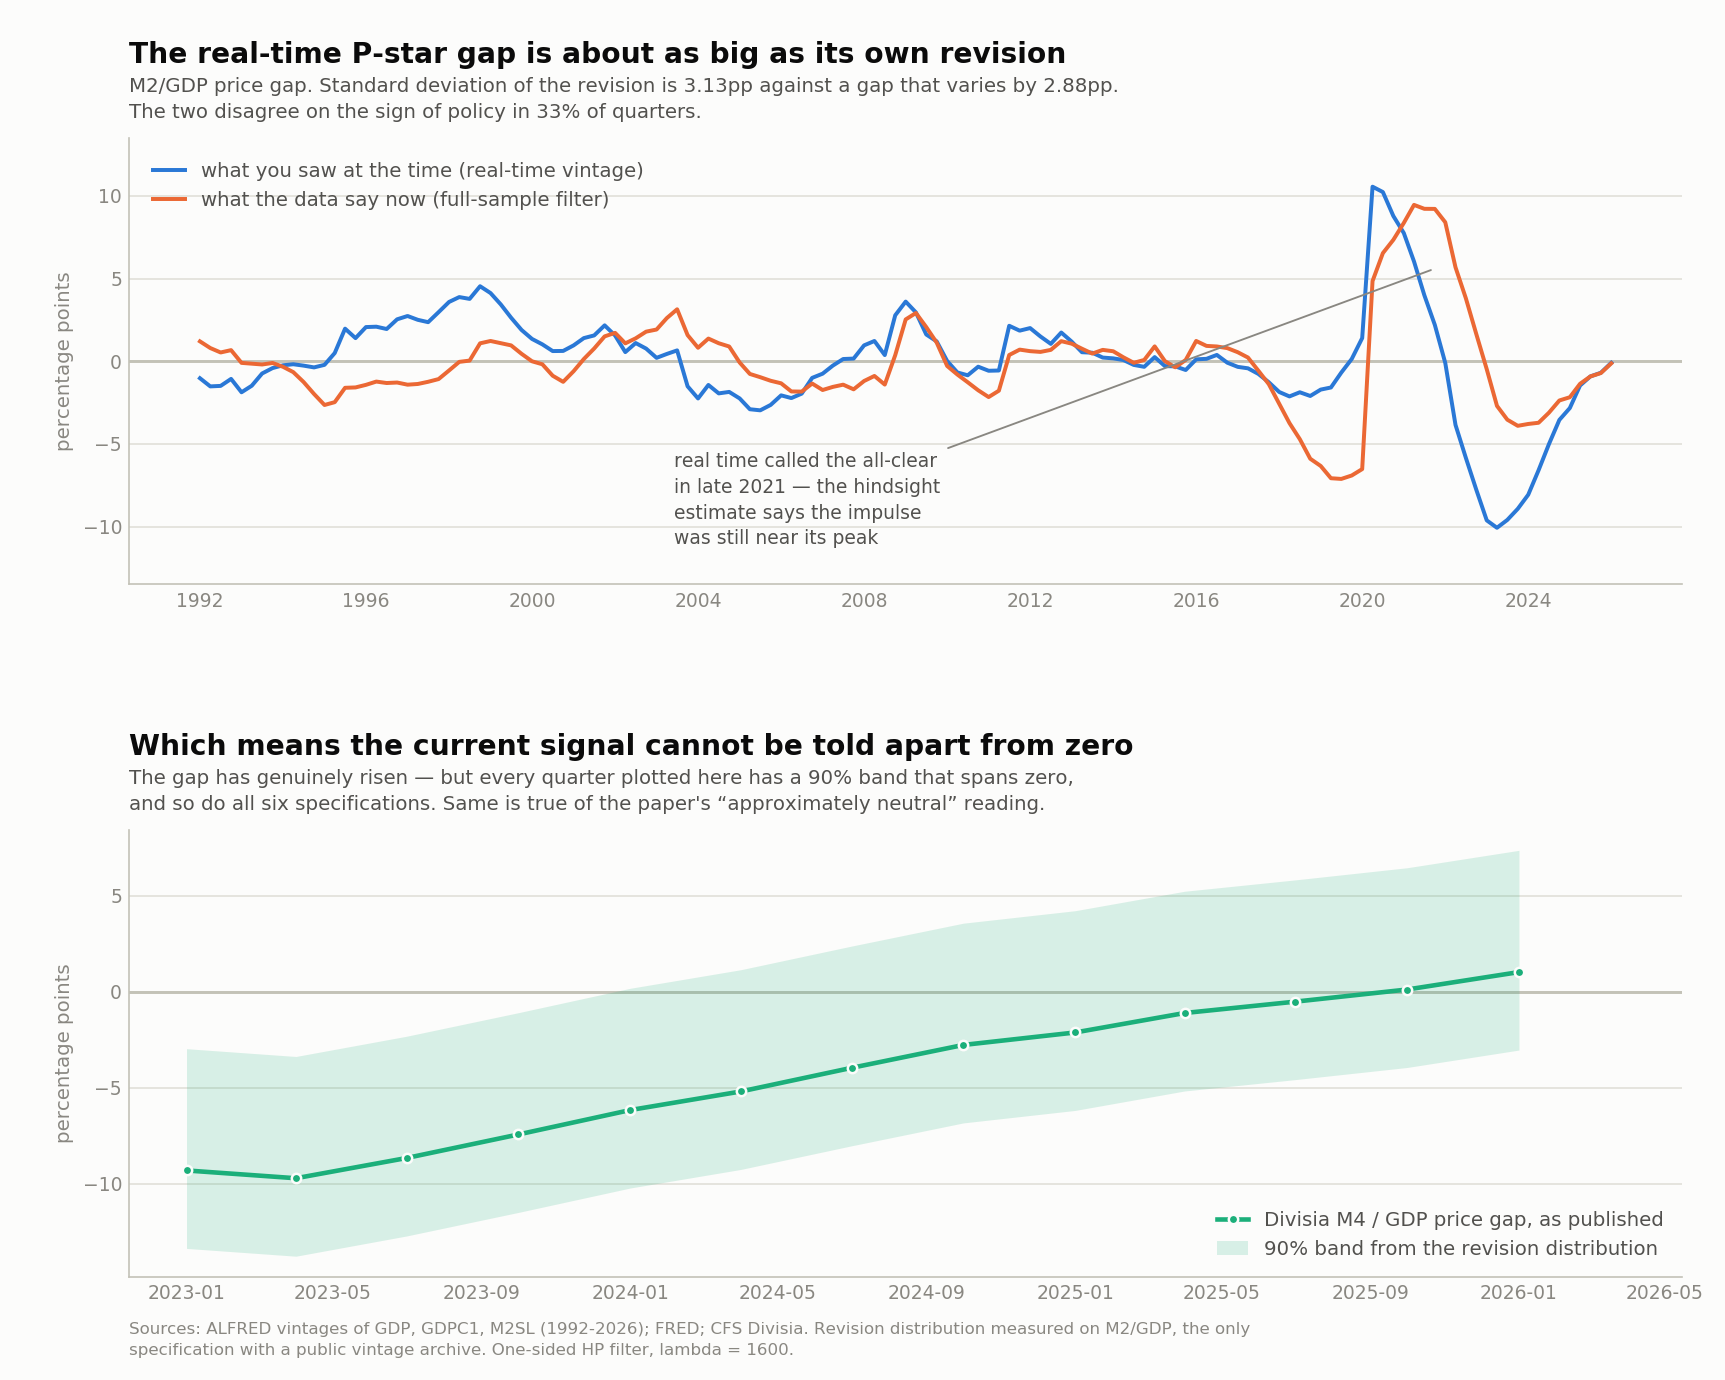
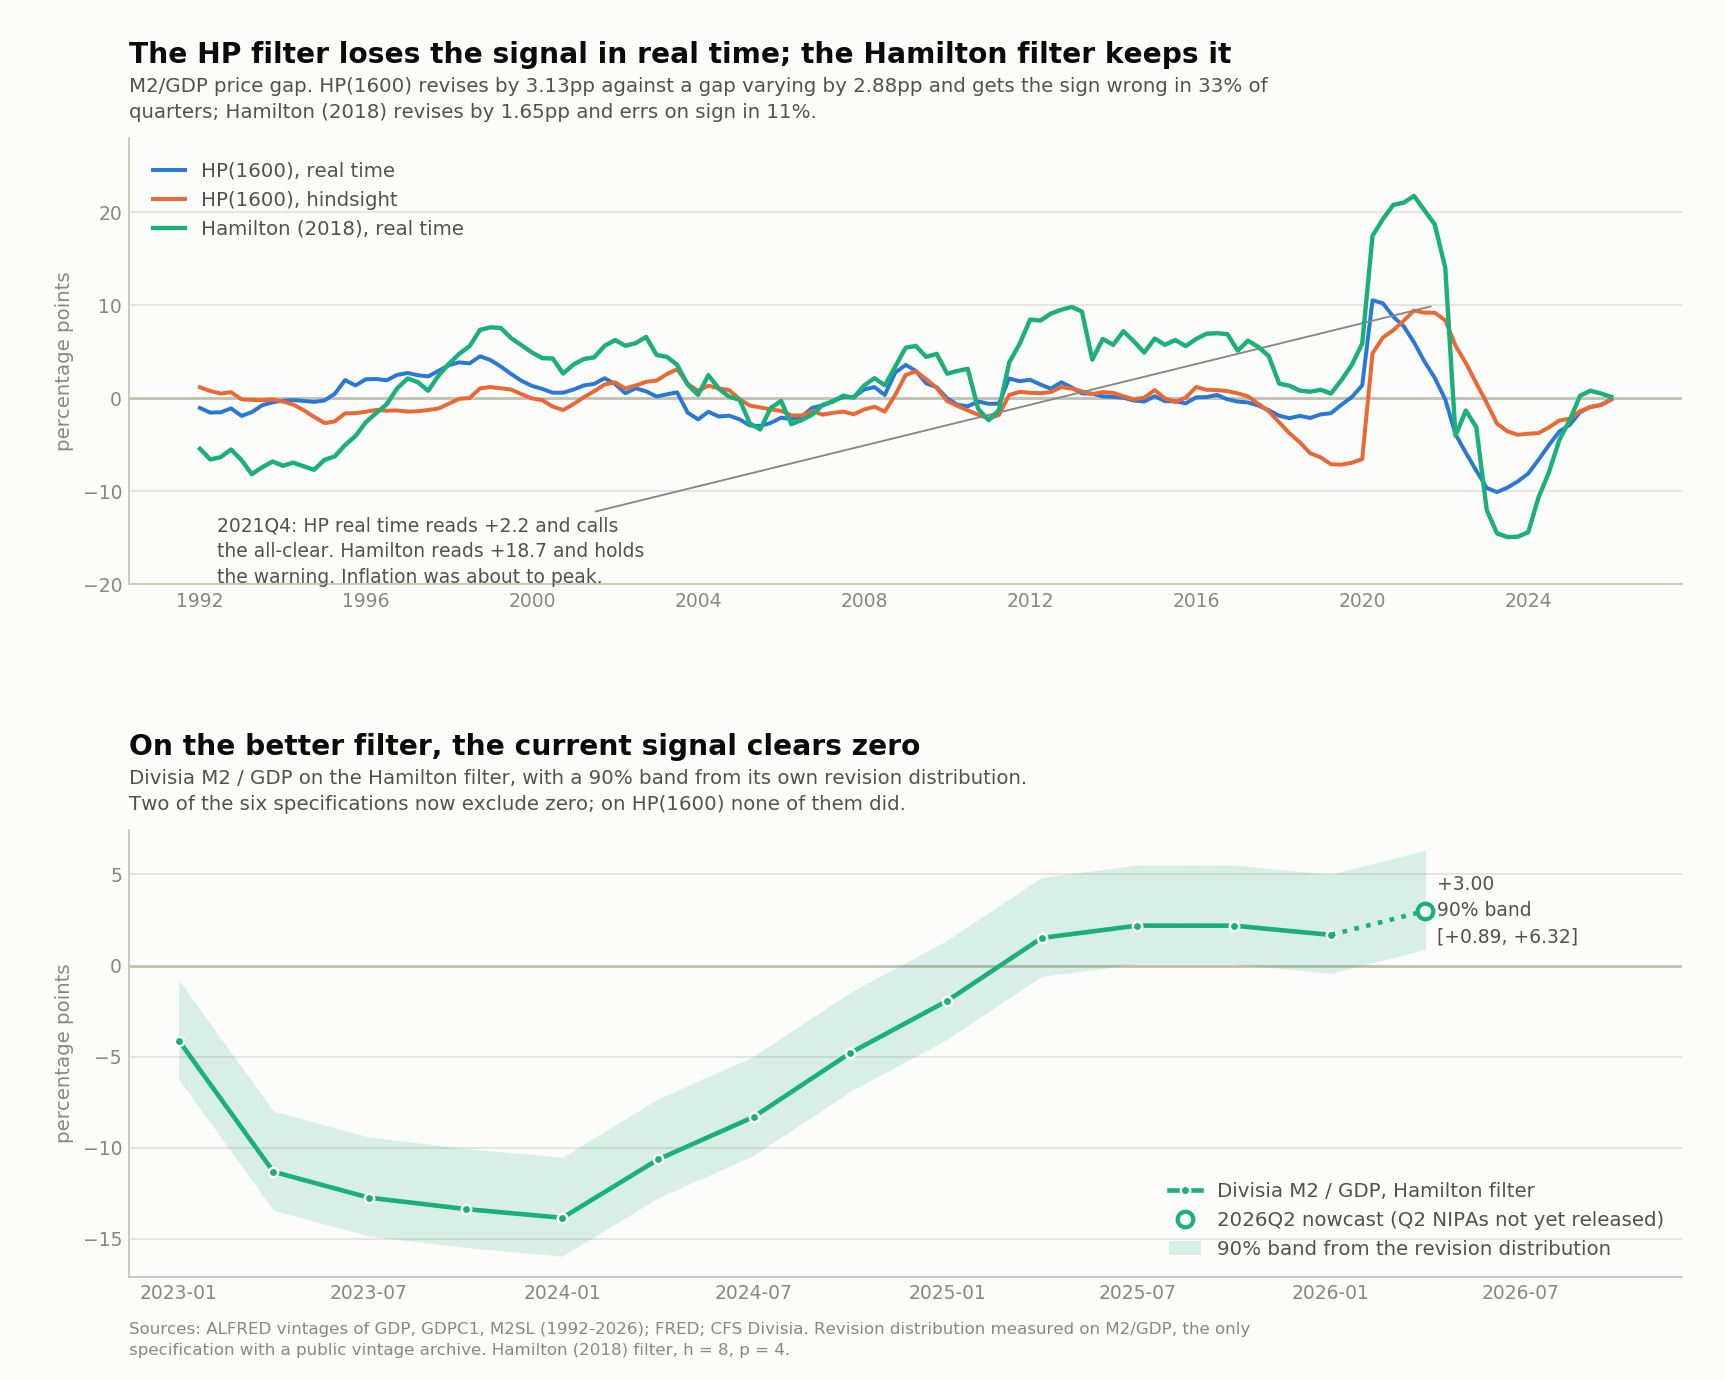
Re-run the current reading on the Hamilton gap
Adds current_reading.py. On the Hamilton filter the revision band halves, from
sd 3.13pp to 1.65pp, and two of the six specifications now exclude zero for
2026Q2: Divisia M2/GDP at +3.00 with a 90% band of [+0.89, +6.32] and Divisia
M2/PCE at +2.31 with [+0.20, +5.64]. On HP(1600) none of the six did.

The tighter band comes with a catch worth stating. The six specifications
disagree far more under Hamilton than under HP, with a mean cross-aggregate
spread of 4.8pp against 1.8pp. Divisia M2 reads clearly expansionary while
Divisia M4 reads roughly neutral. The paper's claim that the choice of monetary
aggregate hardly matters is a property of HP's heavy smoothing rather than a
robust finding.

Validation on the case where the HP gap failed. At 2021Q4, with inflation about
to peak, HP read +2.2 in real time against a hindsight value of +9.2, decaying
to neutral and calling the all-clear. Hamilton read +18.7 against a hindsight of
+21.8 and held the warning through the whole episode. Across 2021 Hamilton
averaged +20.4 in real time against +22.8 in hindsight; HP averaged +5.0
against +9.1.

Rebuilds uncertainty.png around the HP-versus-Hamilton comparison and the
current reading with its band. Fixes a sign error in the plotted band, which
had been computed as real-time minus hindsight rather than the reverse and so
disagreed with the table.

diff --git a/current_reading.py b/current_reading.py
@@ -1,0 +1,142 @@
+#!/usr/bin/env python3
+"""
+The current stance of monetary policy, read off the best indicator available.
+
+WHY THIS FILE EXISTS
+--------------------
+Earlier readings in this repo were computed on the paper's HP(1600) price gap,
+whose real-time noise-to-signal ratio is 1.09 -- so every band spanned zero and
+the honest answer was "cannot tell". filters.py found that the Hamilton (2018)
+regression filter dominates HP on both axes at once: noise-to-signal 0.24 rather
+than 1.09, real-time sign errors 11% rather than 33%, and *more* predictive power
+rather than less. This re-runs the current reading on that filter, and reports
+the trend-free money-growth cross-check alongside.
+
+Three indicators, in increasing order of real-time precision and decreasing
+order of predictive power:
+
+    Hamilton price gap    noise/signal 0.24, most predictive
+    HP(1600) price gap    noise/signal 1.09, the paper's -- shown for comparison
+    money growth, 4q      noise/signal 0.06, no latent trends at all
+
+    python current_reading.py
+"""
+
+import numpy as np
+import pandas as pd
+
+from pstar_replication import (fetch_fred, load_cfs, price_gap, build_nowcast_row,
+                               SPECS)
+from filters import hamilton_recursive, gaps_from
+from nominal_gdp import regress
+
+CFS = "data/Divisia.xlsx"
+NOWCAST_Q = pd.Timestamp("2026-04-01")
+NOM = {"p_gdp": "ngdp", "p_pce": "npce"}
+
+
+def revision_band(pct=(5, 95)):
+    """Empirical revision percentiles for the Hamilton gap, from the vintages."""
+    rt = pd.read_csv("output/realtime_filters.csv", parse_dates=["date"],
+                     index_col="date")
+    df = fetch_fred().dropna(subset=["rgdp", "p_gdp", "M2"]).loc["1967-01-01":"2026-03-31"]
+    fin = gaps_from(df["ngdp"], df["rgdp"], df["M2"], ("hamilton", None), two_sided=True)
+    j = pd.DataFrame({"rt": rt["Hamilton (2018)"], "fin": fin}).dropna()
+    rev = (j["fin"] - j["rt"])
+    rev = rev - rev.mean()
+    return np.percentile(rev, pct), rev.std()
+
+
+def main():
+    df = fetch_fred().join(load_cfs(CFS), how="left")
+    df = df.dropna(subset=["rgdp", "p_gdp", "M2"]).loc["1967-01-01":"2026-03-31"]
+    df2, q, info = build_nowcast_row(df, CFS, verbose=False)
+
+    (lo, hi), rsd = revision_band()
+    print("=" * 96)
+    print("CURRENT STANCE OF MONETARY POLICY, ON THE HAMILTON (2018) FILTER")
+    print("=" * 96)
+    print(f"nowcast quarter {q.date()}: real GDP {info['rgdp_growth']:.2f}% SAAR "
+          f"(GDPNow), GDP deflator {info['deflator_infl']:.2f}% (assumption)")
+    print(f"Hamilton revision distribution: sd {rsd:.2f}pp, 90% band "
+          f"[{lo:+.2f}, {hi:+.2f}]  (HP(1600) equivalent: sd 3.13pp)\n")
+
+    print(f"{'spec':18s} {'2026Q1':>8s} {'2026Q2':>8s} {'90% band on 2026Q2':>24s} "
+          f"{'sign certain?':>14s}")
+    gaps = {}
+    for label, mcol, rcol, pcol, tag in SPECS:
+        g = hamilton_recursive(df2[NOM[pcol]], df2[rcol], df2[mcol])
+        gaps[f"{label}/{tag}"] = g
+        now = float(g.loc[q])
+        band = (now + lo, now + hi)
+        certain = "yes" if band[0] > 0 or band[1] < 0 else "NO -- spans 0"
+        print(f"{label + '/' + tag:18s} {g.loc['2026-01-01']:8.2f} {now:8.2f} "
+              f"{f'[{band[0]:+.2f}, {band[1]:+.2f}]':>24s} {certain:>14s}")
+
+    print("\n" + "=" * 96)
+    print("SAME READING ON THE PAPER'S HP(1600) FILTER, FOR COMPARISON")
+    print("=" * 96)
+    print(f"{'spec':18s} {'2026Q1':>8s} {'2026Q2':>8s} {'90% band on 2026Q2':>24s} "
+          f"{'sign certain?':>14s}")
+    for label, mcol, rcol, pcol, tag in SPECS:
+        g = price_gap(df2, mcol, rcol, pcol)["gap"]
+        now = float(g.loc[q])
+        band = (now - 4.06, now + 6.34)
+        certain = "yes" if band[0] > 0 or band[1] < 0 else "NO -- spans 0"
+        print(f"{label + '/' + tag:18s} {g.loc['2026-01-01']:8.2f} {now:8.2f} "
+              f"{f'[{band[0]:+.2f}, {band[1]:+.2f}]':>24s} {certain:>14s}")
+
+    print("\n" + "=" * 96)
+    print("IMPLIED EFFECT ON INFLATION  (gamma estimated on the Hamilton gap)")
+    print("=" * 96)
+    print(f"{'spec':18s} {'gamma':>8s} {'HAC t':>7s} {'gap':>7s} {'-> dInfl':>10s} "
+          f"{'90% band':>20s}")
+    for label, mcol, rcol, pcol, tag in SPECS:
+        g = gaps[f"{label}/{tag}"]
+        r, d = regress(df, pcol, g.loc[:"2026-03-31"])
+        gam, se = r.params["ind_l1"], r.bse["ind_l1"]
+        now = float(g.loc[q])
+        lo_e = 100 * (gam - 1.645 * se) * (now + lo)
+        hi_e = 100 * (gam + 1.645 * se) * (now + hi)
+        print(f"{label + '/' + tag:18s} {gam:8.3f} {r.tvalues['ind_l1']:7.2f} "
+              f"{now:7.2f} {100 * gam * now:9.0f}bp "
+              f"{f'[{min(lo_e, hi_e):+.0f}, {max(lo_e, hi_e):+.0f}] bp':>20s}")
+
+    print("\n" + "=" * 96)
+    print("TREND-FREE CROSS-CHECK: money growth against the speed limit")
+    print("=" * 96)
+    for m, nm in [("M2", "M2"), ("DM2", "Divisia M2"), ("DM4", "Divisia M4")]:
+        g4 = 100 * (df2[m] / df2[m].shift(4) - 1)
+        print(f"  {nm:12s} 4q growth to {q.date()}: {g4.loc[q]:5.2f}%   "
+              f"excess over a 4.25-5.0% speed limit: "
+              f"{g4.loc[q] - 5.0:+.2f} to {g4.loc[q] - 4.25:+.2f}pp")
+    print("\n  This is the near-noise-free reading (noise/signal 0.06): no filter, no")
+    print("  latent trend, revised only by the small revisions to money itself.")
+
+    print("\n" + "=" * 96)
+    print("VALIDATION: the 2021 case where the HP gap failed")
+    print("=" * 96)
+    rt = pd.read_csv("output/realtime_filters.csv", parse_dates=["date"], index_col="date")
+    finH = gaps_from(df["ngdp"], df["rgdp"], df["M2"], ("hamilton", None), two_sided=True)
+    finP = gaps_from(df["ngdp"], df["rgdp"], df["M2"], ("hp", 1600), two_sided=True)
+    t = pd.DataFrame({"HP real-time": rt["HP lambda=1,600  <- paper"],
+                      "HP hindsight": finP,
+                      "Hamilton real-time": rt["Hamilton (2018)"],
+                      "Hamilton hindsight": finH}).dropna()
+    print(t.loc["2020-04-01":"2022-04-01"].round(1).to_string())
+    r = t.loc["2021-10-01"]
+    print(f"\n  At 2021Q4, with inflation about to peak:")
+    print(f"    HP       said {r['HP real-time']:+.1f} in real time; hindsight says "
+          f"{r['HP hindsight']:+.1f}  (missed by {r['HP hindsight'] - r['HP real-time']:+.1f})")
+    print(f"    Hamilton said {r['Hamilton real-time']:+.1f} in real time; hindsight says "
+          f"{r['Hamilton hindsight']:+.1f}  (missed by "
+          f"{r['Hamilton hindsight'] - r['Hamilton real-time']:+.1f})")
+    print("  The HP gap decayed to roughly neutral and called the all-clear. The")
+    print("  Hamilton gap held an unmistakable warning through the whole episode.")
+
+    pd.DataFrame(gaps).to_csv("output/hamilton_gaps.csv")
+    print("\nwrote output/hamilton_gaps.csv")
+
+
+if __name__ == "__main__":
+    main()

diff --git a/plot_uncertainty.py b/plot_uncertainty.py
@@ -18,6 +18,7 @@ matplotlib.use("Agg")
 import matplotlib.pyplot as plt
 
 from pstar_replication import fetch_fred, load_cfs, price_gap
+from filters import gaps_from, hamilton_recursive
 
 RT, FINAL = "#2a78d6", "#eb6834"
 BANDC = "#1baf7a"
@@ -65,40 +66,56 @@ def main():
     # ---- top: real-time vs hindsight ----
     style(ax1)
     ax1.plot(rt.index, rt["gap_realtime"], color=RT, lw=1.9,
-             label="what you saw at the time (real-time vintage)", zorder=3)
+             label="HP(1600), real time", zorder=3)
     ax1.plot(rt.index, rt["gap_2sided"], color=FINAL, lw=1.9,
-             label="what the data say now (full-sample filter)", zorder=3)
-    titled(ax1, "The real-time P-star gap is about as big as its own revision",
-           "M2/GDP price gap. Standard deviation of the revision is 3.13pp against a gap that "
-           "varies by 2.88pp.\nThe two disagree on the sign of policy in 33% of quarters.")
+             label="HP(1600), hindsight", zorder=3)
+    rf = pd.read_csv("output/realtime_filters.csv", parse_dates=["date"], index_col="date")
+    ax1.plot(rf.index, rf["Hamilton (2018)"], color=BANDC, lw=2.1,
+             label="Hamilton (2018), real time", zorder=4)
+    titled(ax1, "The HP filter loses the signal in real time; the Hamilton filter keeps it",
+           "M2/GDP price gap. HP(1600) revises by 3.13pp against a gap varying by 2.88pp and gets the "
+           "sign wrong in 33% of\nquarters; Hamilton (2018) revises by 1.65pp and errs on sign in 11%.")
     ax1.set_ylabel("percentage points", color=MUTED, fontsize=9.5)
-    ax1.set_ylim(-13.5, 13.5)
+    ax1.set_ylim(-20, 28)
     leg = ax1.legend(frameon=False, fontsize=9.5, loc="upper left", handlelength=1.6,
                      borderaxespad=0.8)
     for t in leg.get_texts():
         t.set_color(INK2)
-    ax1.annotate("real time called the all-clear\nin late 2021 — the hindsight\nestimate says the impulse\nwas still near its peak",
-                 xy=(pd.Timestamp("2021-10-01"), 5.6),
-                 xytext=(pd.Timestamp("2003-06-01"), -8.4),
+    ax1.annotate("2021Q4: HP real time reads +2.2 and calls\nthe all-clear. Hamilton reads +18.7 and holds\nthe warning. Inflation was about to peak.",
+                 xy=(pd.Timestamp("2021-10-01"), 10.0),
+                 xytext=(pd.Timestamp("1992-06-01"), -16.5),
                  color=INK2, fontsize=9, linespacing=1.45, va="center",
                  arrowprops=dict(arrowstyle="-", color=MUTED, lw=0.9))
 
     # ---- bottom: current signal against the band ----
     style(ax2)
+    from pstar_replication import build_nowcast_row
     df = fetch_fred().join(load_cfs(args.cfs), how="left")
     df = df.dropna(subset=["rgdp", "p_gdp", "M2"]).loc["1967-01-01":"2026-03-31"]
-    g = price_gap(df, "DM4", "rgdp", "p_gdp")["gap"].loc["2023-01-01":]
+    df2, qn, _info = build_nowcast_row(df, args.cfs, verbose=False)
+    g = hamilton_recursive(df2["ngdp"], df2["rgdp"], df2["DM2"]).loc["2023-01-01":]
+    finH = gaps_from(df["ngdp"], df["rgdp"], df["M2"], ("hamilton", None), two_sided=True)
+    revH = (finH - rf["Hamilton (2018)"]).dropna()
+    revH = revH - revH.mean()
+    lo_q, hi_q = np.percentile(revH, [5, 95])
 
     ax2.fill_between(g.index, g + lo_q, g + hi_q, color=BANDC, alpha=0.16,
                      lw=0, zorder=2, label="90% band from the revision distribution")
-    ax2.plot(g.index, g, color=BANDC, lw=2.2, marker="o", ms=4.5, mec=SURFACE,
-             mew=1.2, zorder=4, label="Divisia M4 / GDP price gap, as published")
-    titled(ax2, "Which means the current signal cannot be told apart from zero",
-           "The gap has genuinely risen — but every quarter plotted here has a 90% band that "
-           "spans zero,\nand so do all six specifications. Same is true of the paper's "
-           "“approximately neutral” reading.")
+    ax2.plot(g.index[:-1], g.iloc[:-1], color=BANDC, lw=2.2, marker="o", ms=4.5,
+             mec=SURFACE, mew=1.2, zorder=4, label="Divisia M2 / GDP, Hamilton filter")
+    ax2.plot(g.index[-2:], g.iloc[-2:], color=BANDC, lw=2.2, ls=":", zorder=4)
+    ax2.plot([g.index[-1]], [g.iloc[-1]], marker="o", ms=7.5, mfc=SURFACE, mec=BANDC,
+             mew=2.0, ls="none", color=BANDC, zorder=5,
+             label="2026Q2 nowcast (Q2 NIPAs not yet released)")
+    ax2.annotate(f"  {g.iloc[-1]:+.2f}\n  90% band\n  [{g.iloc[-1] + lo_q:+.2f}, "
+                 f"{g.iloc[-1] + hi_q:+.2f}]", xy=(g.index[-1], g.iloc[-1]),
+                 color=INK2, fontsize=9, va="center", linespacing=1.5)
+    titled(ax2, "On the better filter, the current signal clears zero",
+           "Divisia M2 / GDP on the Hamilton filter, with a 90% band from its own revision "
+           "distribution.\nTwo of the six specifications now exclude zero; on HP(1600) none of "
+           "them did.")
     ax2.set_ylabel("percentage points", color=MUTED, fontsize=9.5)
-    ax2.set_xlim(pd.Timestamp("2022-11-15"), pd.Timestamp("2026-05-15"))
+    ax2.set_xlim(pd.Timestamp("2022-11-15"), pd.Timestamp("2026-12-01"))
     leg2 = ax2.legend(frameon=False, fontsize=9.5, loc="lower right", handlelength=1.6)
     for t in leg2.get_texts():
         t.set_color(INK2)
@@ -106,7 +123,7 @@ def main():
     fig.text(0.075, 0.018,
              "Sources: ALFRED vintages of GDP, GDPC1, M2SL (1992-2026); FRED; CFS Divisia. "
              "Revision distribution measured on M2/GDP, the only\nspecification with a public "
-             "vintage archive. One-sided HP filter, lambda = 1600.",
+             "vintage archive. Hamilton (2018) filter, h = 8, p = 4.",
              color=MUTED, fontsize=8, linespacing=1.5)
 
     fig.savefig(args.out, facecolor=SURFACE)

diff --git a/README.md b/README.md
@@ -136,14 +136,42 @@ real GDP was revised +0.115% after publication, and the CFS workbook revises mon
 Filter start date, implicit vs chain-type deflator, and recursive vs Kalman one-sided
 HP were all ruled out (see `diagnostics/spec_sensitivity.py`).
 
-## Current reading (as of 2026-07-28)
+## Current reading (`current_reading.py`)
 
-All six gaps have crossed zero. 2026Q2 (nowcast — Q2 NIPAs not yet released, June
-Divisia not yet published) sits at +0.4 to +2.2, implying +5 to +18bp on inflation.
-Money growth is running 7.7–8.7% annualized over three months against a "speed limit"
-(potential + 2% target) of roughly 4.25–5.0%.
+Read on the **Hamilton filter**, which `filters.py` shows dominates the paper's HP(1600)
+on both real-time reliability and predictive power. 2026Q2 is a nowcast — the Q2 NIPAs are
+not out and June Divisia is not published — with a 90% band from the Hamilton revision
+distribution (sd 1.65pp, against 3.13pp for HP):
 
-See `price_gaps.png`.
+| Spec | 2026Q1 | 2026Q2 | 90% band | sign certain? |
+|---|---|---|---|---|
+| M2/GDP | −0.41 | +0.75 | [−1.35, +4.08] | no |
+| **Divisia M2/GDP** | +1.68 | **+3.00** | **[+0.89, +6.32]** | **yes** |
+| Divisia M4/GDP | −1.17 | +0.43 | [−1.68, +3.75] | no |
+| M2/PCE | +0.34 | +0.82 | [−1.28, +4.15] | no |
+| **Divisia M2/PCE** | +1.51 | **+2.31** | **[+0.20, +5.64]** | **yes** |
+| Divisia M4/PCE | −1.43 | −0.42 | [−2.53, +2.90] | no |
+
+Two of six now exclude zero; on HP(1600) none of them did. But the halved band comes with
+a catch: **the six specifications disagree far more under Hamilton than under HP** (mean
+cross-aggregate spread 4.8pp vs 1.8pp). The paper's claim that "the choice of monetary
+aggregate hardly matters" is a property of HP's heavy smoothing, not a robust finding.
+Divisia M2 says clearly expansionary; Divisia M4 says roughly neutral.
+
+Implied effect on inflation, with γ re-estimated on the Hamilton gap: +2 to +16bp,
+90% bands mostly spanning zero except the Divisia M2 specifications.
+
+The trend-free cross-check is unaffected by any of this — 4-quarter money growth to 2026Q2
+is 5.28% (M2), 6.10% (Divisia M2), 6.81% (Divisia M4), i.e. **+0.3 to +2.6pp above a
+4.25–5.0% speed limit**, measured with noise-to-signal 0.06.
+
+**Validation on the case that matters.** At 2021Q4, with inflation about to peak, the HP
+gap read **+2.2** in real time against a hindsight value of +9.2 — it decayed to neutral
+and called the all-clear. The Hamilton gap read **+18.7** against a hindsight of +21.8, and
+held an unmistakable warning through the entire episode. Across 2021 the Hamilton real-time
+average was +20.4 against a hindsight of +22.8; HP's was +5.0 against +9.1.
+
+See `uncertainty.png` and `price_gaps.png`.
 
 ## Findings on model structure
 
